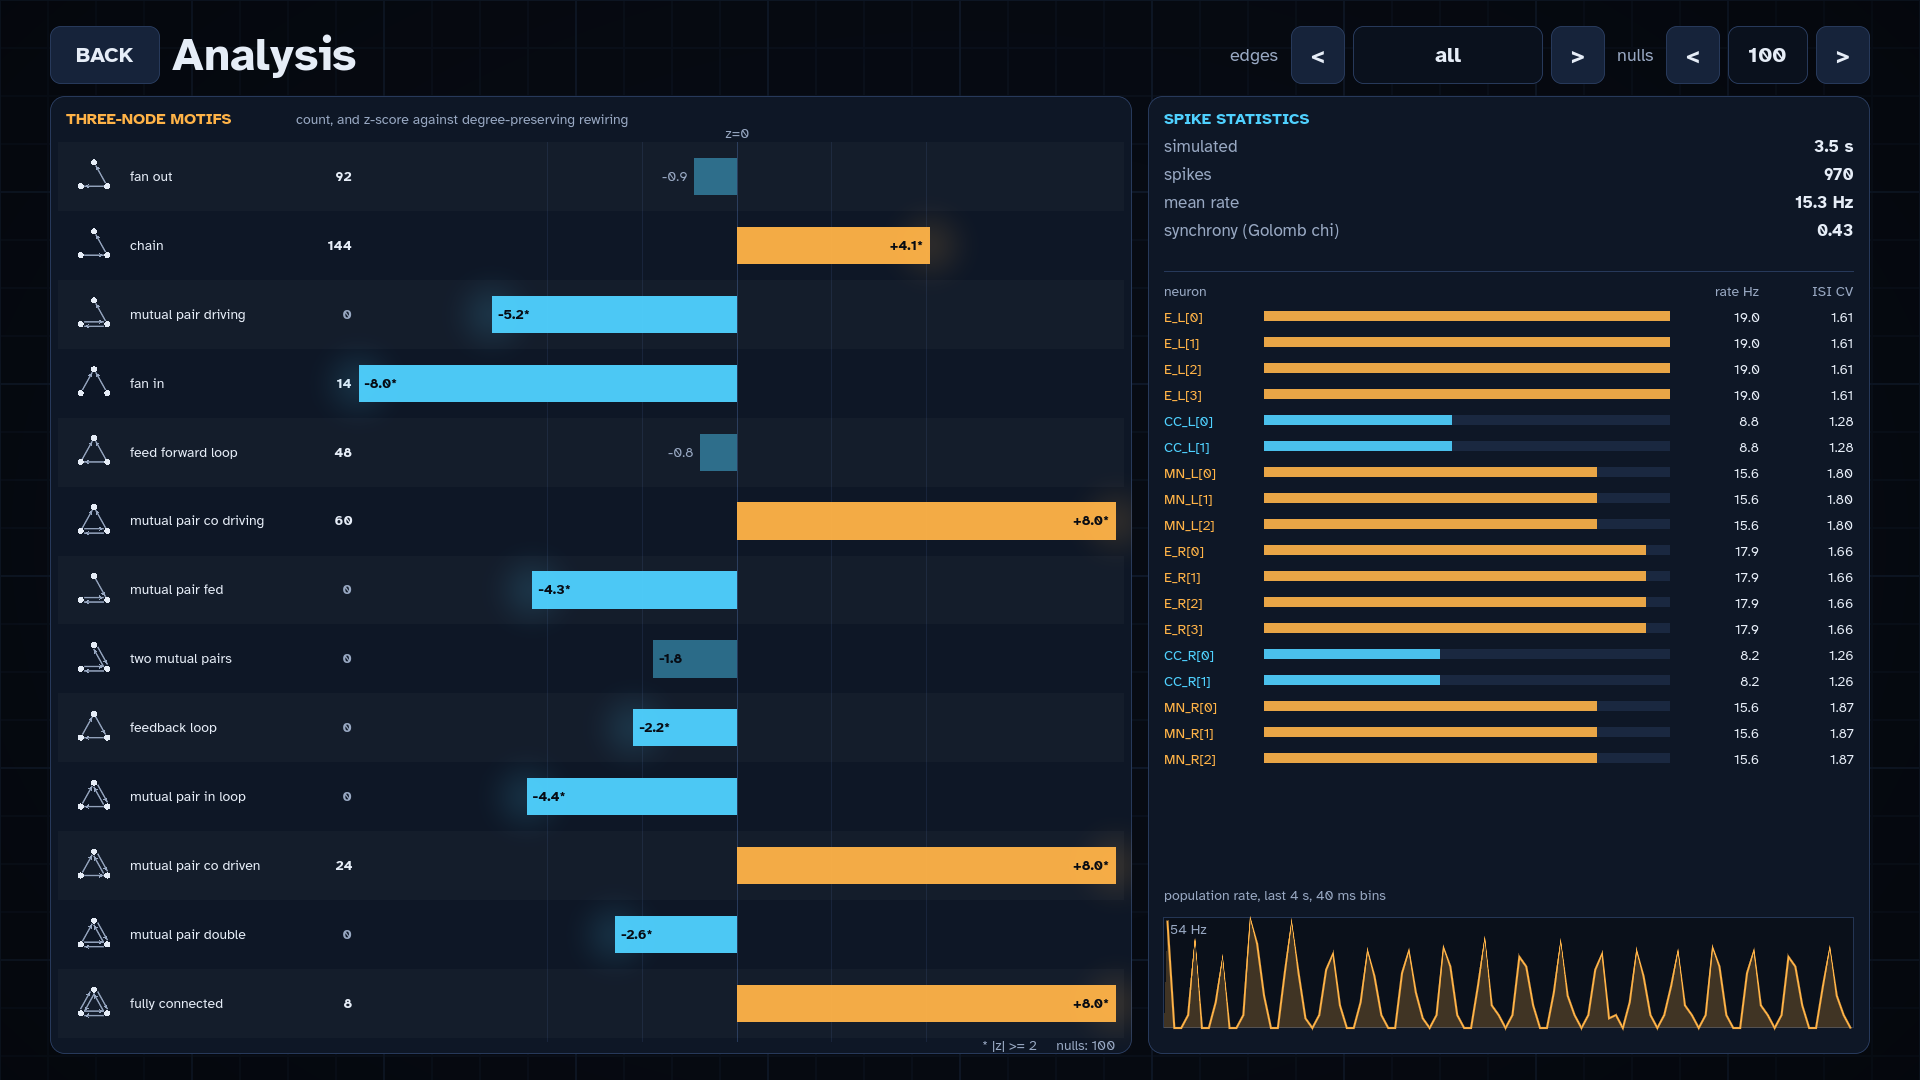
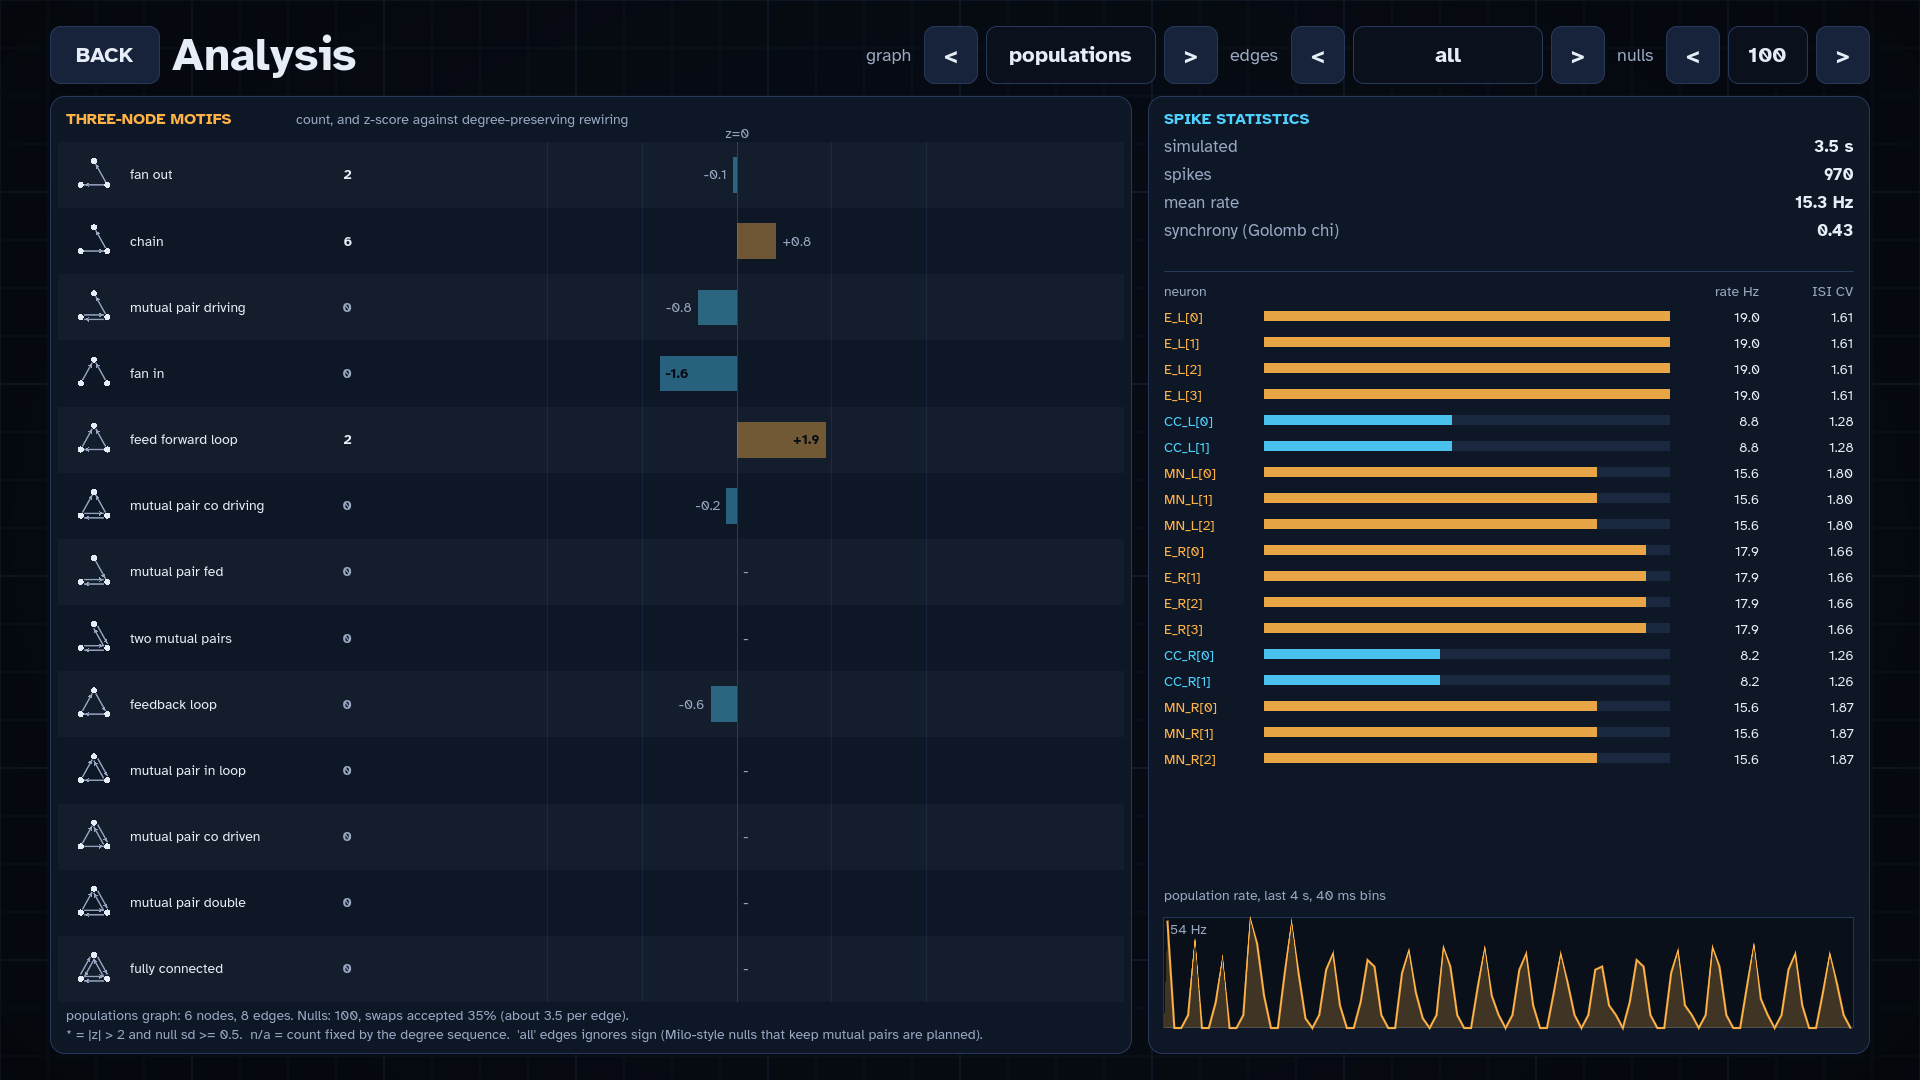
Analysis: n/a for undefined z, population/neuron graph toggle, swap-acceptance stats with degenerate-null warning, stricter significance; escaped bridge errors
Claude-Session: https://claude.ai/code/session_01LLtMdYYD8XdnzSCU87w8B8

diff --git a/engine/tests/analysis_nulls_test.cpp b/engine/tests/analysis_nulls_test.cpp
@@ -1,0 +1,143 @@
+// Tests for the null-model diagnostics: swap acceptance, degenerate-null detection, significance marking, JSON for undefined z.
+#include <cmath>
+#include <cstdio>
+#include <limits>
+#include <string>
+
+#include "spike/analysis.h"
+
+using namespace spike::analysis;
+
+static int g_fail = 0;
+#define CHECK( cond )                                                                                                  \
+  do                                                                                                                   \
+  {                                                                                                                    \
+    if ( !( cond ) )                                                                                                   \
+    {                                                                                                                  \
+      std::printf( "FAIL %s:%d  %s\n", __FILE__, __LINE__, #cond );                                                    \
+      ++g_fail;                                                                                                        \
+    }                                                                                                                  \
+  } while ( 0 )
+
+static std::vector< Edge > dense( int n, double keep_every )
+{
+  std::vector< Edge > e;
+  int k = 0;
+  for ( int a = 0; a < n; ++a )
+    for ( int b = 0; b < n; ++b )
+      if ( a != b && ( ++k % static_cast< int >( keep_every ) ) != 0 )
+        e.push_back( { a, b, 1.0 } );
+  return e;
+}
+
+static std::vector< Edge > sparse_random( int n, int m, uint64_t seed )
+{
+  std::vector< Edge > e;
+  uint64_t s = seed;
+  while ( static_cast< int >( e.size() ) < m )
+  {
+    s = s * 6364136223846793005ULL + 1442695040888963407ULL;
+    const int a = static_cast< int >( ( s >> 33 ) % n );
+    s = s * 6364136223846793005ULL + 1442695040888963407ULL;
+    const int b = static_cast< int >( ( s >> 33 ) % n );
+    if ( a != b )
+      e.push_back( { a, b, 1.0 } );
+  }
+  return e;
+}
+
+static void test_rewire_stats()
+{
+  const Graph g = make_graph( sparse_random( 60, 150, 3 ), 60 );
+  RewireStats st;
+  const Graph r = rewire( g, 11, 10, &st );
+  CHECK( st.attempts == static_cast< uint64_t >( g.edge_count() ) * 10 );
+  CHECK( st.accepted > 0 && st.accepted <= st.attempts );
+  CHECK( st.accepted > st.attempts / 2 );  // sparse graph: most swaps succeed
+  CHECK( r.out == rewire( g, 11, 10 ).out );  // the stats overload gives the same graph
+  // complete digraph: no swap is possible
+  RewireStats full;
+  rewire( make_graph( dense( 5, 1000000 ), 5 ), 1, 10, &full );
+  CHECK( full.attempts > 0 && full.accepted == 0 );
+}
+
+static void test_degenerate_null()
+{
+  // 6 nodes, nearly complete: almost every swap would create a duplicate edge
+  const auto r = motif_zscores( dense( 6, 7 ), 6, Sign::Any, 50, 1 );
+  CHECK( r.swap_acceptance < kMinSwapAcceptance );
+  CHECK( r.degenerate );
+  for ( int c = 0; c < kMotifClasses; ++c )
+    CHECK( !motif_is_significant( r, c ) );  // never starred on a degenerate null
+  const std::string j = motif_result_json( r );
+  CHECK( j.find( "\"degenerate\":true" ) != std::string::npos );
+  CHECK( j.find( "\"swap_acceptance\":" ) != std::string::npos );
+  CHECK( j.find( "\"significant\":true" ) == std::string::npos );
+
+  // a sparse graph randomises fine
+  const auto s = motif_zscores( sparse_random( 80, 160, 5 ), 80, Sign::Any, 30, 1 );
+  CHECK( !s.degenerate );
+  CHECK( s.swap_acceptance > 0.5 );
+  CHECK( s.effective_swaps_per_edge > 1.0 );
+  CHECK( s.node_count == 80 && s.edge_count > 100 );
+  CHECK( motif_result_json( s ).find( "\"degenerate\":false" ) != std::string::npos );
+}
+
+static void test_significance_rule()
+{
+  // planted feed-forward loops in a sparse random graph: FFL (index 4) is significant
+  std::vector< Edge > e = sparse_random( 80, 90, 4 );
+  for ( int t = 0; t < 25; ++t )
+  {
+    const int x = 3 * t, y = x + 1, z = x + 2;
+    e.push_back( { x, y, 1 } );
+    e.push_back( { y, z, 1 } );
+    e.push_back( { x, z, 1 } );
+  }
+  const auto r = motif_zscores( e, 80, Sign::Any, 40, 5 );
+  CHECK( !r.degenerate );
+  CHECK( r.z[ 4 ] > 2.0 && r.null_sd[ 4 ] >= kMinNullSd );
+  CHECK( motif_is_significant( r, 4 ) );
+  // marking requires both |z| > 2 and enough null variance
+  for ( int c = 0; c < kMotifClasses; ++c )
+    CHECK( motif_is_significant( r, c ) == ( std::isfinite( r.z[ c ] ) && std::fabs( r.z[ c ] ) > kSignificantZ && r.null_sd[ c ] >= kMinNullSd ) );
+  // few tiny-variance classes with a large |z| exist here and are not starred
+  bool tiny = false;
+  for ( int c = 0; c < kMotifClasses; ++c )
+    if ( r.null_sd[ c ] > 0 && r.null_sd[ c ] < kMinNullSd && std::fabs( r.z[ c ] ) > kSignificantZ )
+    {
+      tiny = true;
+      CHECK( !motif_is_significant( r, c ) );
+    }
+  (void)tiny;
+}
+
+static void test_nonfinite_z_json()
+{
+  MotifResult r;
+  r.counts.assign( kMotifClasses, 3 );
+  r.null_mean.assign( kMotifClasses, 3.0 );
+  r.null_sd.assign( kMotifClasses, 0.0 );
+  r.z.assign( kMotifClasses, 0.0 );
+  r.significant.assign( kMotifClasses, 0 );
+  r.z[ 0 ] = std::numeric_limits< double >::infinity();
+  r.z[ 1 ] = -std::numeric_limits< double >::infinity();
+  const std::string j = motif_result_json( r );
+  // +-inf serialises as null with z_defined false and is never significant; a finite z is defined
+  CHECK( j.find( "\"z\":null,\"z_defined\":false,\"significant\":false" ) != std::string::npos );
+  CHECK( j.find( "\"z\":0,\"z_defined\":true,\"significant\":false" ) != std::string::npos );
+  size_t n_null = 0, pos = 0;
+  while ( ( pos = j.find( "\"z\":null", pos ) ) != std::string::npos )
+    ++n_null, ++pos;
+  CHECK( n_null == 2 );
+}
+
+int main()
+{
+  test_rewire_stats();
+  test_degenerate_null();
+  test_significance_rule();
+  test_nonfinite_z_json();
+  std::printf( g_fail ? "analysis_nulls_test: %d FAILED\n" : "analysis_nulls_test: all passed\n", g_fail );
+  return g_fail ? 1 : 0;
+}

diff --git a/engine/src/analysis/analysis.cpp b/engine/src/analysis/analysis.cpp
@@ -202,6 +202,11 @@ Census motif_census( const std::vector< Edge >& edges, int32_t n, Sign sign )
 
 Graph rewire( const Graph& g, uint64_t seed, int swaps_per_edge )
 {
+  return rewire( g, seed, swaps_per_edge, nullptr );
+}
+
+Graph rewire( const Graph& g, uint64_t seed, int swaps_per_edge, RewireStats* stats )
+{
   std::vector< std::pair< int32_t, int32_t > > e;
   std::unordered_set< uint64_t > present;
   const uint64_t N = static_cast< uint64_t >( std::max( g.n, 1 ) );
@@ -219,12 +224,16 @@ Graph rewire( const Graph& g, uint64_t seed, int swaps_per_edge )
     for ( uint64_t t = 0; t < tries; ++t )
     {
       const uint64_t i = rng.next() % m, j = rng.next() % m;
+      if ( stats )
+        ++stats->attempts;
       const auto [ a, b ] = e[ i ];
       const auto [ c, d ] = e[ j ];
       if ( a == c || b == d || a == d || c == b )
         continue;
       if ( present.count( a * N + d ) || present.count( c * N + b ) )
         continue;
+      if ( stats )
+        ++stats->accepted;
       present.erase( a * N + b );
       present.erase( c * N + d );
       present.insert( a * N + d );
@@ -249,8 +258,18 @@ MotifResult motif_zscores( const Graph& g, int n_null, uint64_t seed, int swaps_
   r.counts = motif_census( g );
   r.null_samples = n_null;
   std::vector< Census > nulls;
+  RewireStats rs;
   for ( int k = 0; k < n_null; ++k )
-    nulls.push_back( motif_census( rewire( g, seed + static_cast< uint64_t >( k ), swaps_per_edge ) ) );
+    nulls.push_back( motif_census( rewire( g, seed + static_cast< uint64_t >( k ), swaps_per_edge, &rs ) ) );
+  r.node_count = g.n;
+  r.edge_count = g.edge_count();
+  r.swap_attempts = rs.attempts;
+  r.swap_accepted = rs.accepted;
+  r.swap_acceptance = rs.attempts ? static_cast< double >( rs.accepted ) / static_cast< double >( rs.attempts ) : 0.0;
+  r.effective_swaps_per_edge =
+    ( n_null > 0 && r.edge_count > 0 ) ? static_cast< double >( rs.accepted ) / static_cast< double >( n_null ) / static_cast< double >( r.edge_count ) : 0.0;
+  r.degenerate = n_null > 0 && r.swap_acceptance < kMinSwapAcceptance;
+  r.significant.assign( kMotifClasses, 0 );
   r.null_mean.assign( kMotifClasses, 0.0 );
   r.null_sd.assign( kMotifClasses, 0.0 );
   r.z.assign( kMotifClasses, 0.0 );
@@ -277,6 +296,7 @@ MotifResult motif_zscores( const Graph& g, int n_null, uint64_t seed, int swaps_
       r.z[ c ] = 0.0;
     else
       r.z[ c ] = diff > 0 ? std::numeric_limits< double >::infinity() : -std::numeric_limits< double >::infinity();
+    r.significant[ c ] = ( std::isfinite( r.z[ c ] ) && std::fabs( r.z[ c ] ) > kSignificantZ && sd >= kMinNullSd && !r.degenerate ) ? 1 : 0;
   }
   return r;
 }
@@ -285,6 +305,11 @@ MotifResult motif_zscores(
   const std::vector< Edge >& edges, int32_t n, Sign sign, int n_null, uint64_t seed, int swaps_per_edge )
 {
   return motif_zscores( make_graph( edges, n, sign ), n_null, seed, swaps_per_edge );
+}
+
+bool motif_is_significant( const MotifResult& r, int c )
+{
+  return c >= 0 && c < static_cast< int >( r.significant.size() ) && r.significant[ c ] != 0;
 }
 
 static void json_num( std::ostringstream& o, double v )
@@ -302,7 +327,12 @@ static void json_num( std::ostringstream& o, double v )
 std::string motif_result_json( const MotifResult& r )
 {
   std::ostringstream o;
-  o << "{\"null_samples\":" << r.null_samples << ",\"motifs\":[";
+  o << "{\"null_samples\":" << r.null_samples << ",\"nodes\":" << r.node_count << ",\"edges\":" << r.edge_count
+    << ",\"swap_acceptance\":";
+  json_num( o, r.swap_acceptance );
+  o << ",\"effective_swaps_per_edge\":";
+  json_num( o, r.effective_swaps_per_edge );
+  o << ",\"degenerate\":" << ( r.degenerate ? "true" : "false" ) << ",\"motifs\":[";
   for ( int c = 0; c < kMotifClasses; ++c )
   {
     const auto& m = motif_info( c );
@@ -313,7 +343,8 @@ std::string motif_result_json( const MotifResult& r )
     json_num( o, c < static_cast< int >( r.null_sd.size() ) ? r.null_sd[ c ] : 0.0 );
     o << ",\"z\":";
     json_num( o, c < static_cast< int >( r.z.size() ) ? r.z[ c ] : 0.0 );
-    o << "}";
+    o << ",\"z_defined\":" << ( c < static_cast< int >( r.z.size() ) && std::isfinite( r.z[ c ] ) ? "true" : "false" )
+      << ",\"significant\":" << ( motif_is_significant( r, c ) ? "true" : "false" ) << "}";
   }
   o << "]}";
   return o.str();

diff --git a/engine/include/spike/analysis.h b/engine/include/spike/analysis.h
@@ -67,6 +67,22 @@ Census motif_census( const std::vector< Edge >& edges, int32_t n = -1, Sign sign
 /// `swaps_per_edge` attempted swaps per edge. Deterministic for a given seed (SplitMix64, identical in Python).
 Graph rewire( const Graph& g, uint64_t seed, int swaps_per_edge = 10 );
 
+/// What rewire() did: swap attempts vs accepted swaps. Small dense graphs reject most attempts, so the null barely differs from
+/// the real graph; acceptance = accepted / attempts says how much randomisation actually happened.
+struct RewireStats
+{
+  uint64_t attempts = 0;
+  uint64_t accepted = 0;
+};
+Graph rewire( const Graph& g, uint64_t seed, int swaps_per_edge, RewireStats* stats );  // same result as the 3-argument form
+
+/// Below this swap acceptance rate the null ensemble is called degenerate (too little randomisation to trust a z-score).
+constexpr double kMinSwapAcceptance = 0.2;
+/// A z-score counts as significant only if |z| > kSignificantZ and the null sd is at least kMinNullSd counts (counts are
+/// integers: an sd below ~0.5 means the null is essentially a constant, and z explodes on a difference of one).
+constexpr double kSignificantZ = 2.0;
+constexpr double kMinNullSd = 0.5;
+
 struct MotifResult
 {
   Census counts;                  // real graph
@@ -74,12 +90,24 @@ struct MotifResult
   std::vector< double > null_sd;  // sample sd (n-1) across the null ensemble
   std::vector< double > z;        // (count - mean) / sd; 0 if count == mean, +-inf if sd == 0 and count != mean
   int null_samples = 0;
+  // --- add-only diagnostics of the null model
+  int32_t node_count = 0;
+  int64_t edge_count = 0;
+  uint64_t swap_attempts = 0;       // summed over the null ensemble
+  uint64_t swap_accepted = 0;
+  double swap_acceptance = 0.0;     // accepted / attempts (0 if no swap was possible)
+  double effective_swaps_per_edge = 0.0;  // accepted swaps per edge per null graph
+  bool degenerate = false;          // swap_acceptance < kMinSwapAcceptance (or fewer than 2 edges): nulls hardly differ from the data
+  std::vector< int > significant;   // 1 if finite z, |z| > kSignificantZ and null_sd >= kMinNullSd; infinite/undefined z is never significant
 };
 
 /// Census plus z-scores against `n_null` rewired graphs (null k uses seed + k).
 MotifResult motif_zscores( const Graph& g, int n_null, uint64_t seed, int swaps_per_edge = 10 );
 MotifResult motif_zscores( const std::vector< Edge >& edges, int32_t n, Sign sign, int n_null, uint64_t seed,
   int swaps_per_edge = 10 );
+
+/// True if the z-score of class c is finite and trustworthy enough to mark (see kSignificantZ / kMinNullSd) and the null is not degenerate.
+bool motif_is_significant( const MotifResult& r, int c );
 
 /// Results as one JSON object (class table + counts + z), for the Godot analysis screen and the CLI tool.
 std::string motif_result_json( const MotifResult& r );

diff --git a/gdext/src/bridge.cpp b/gdext/src/bridge.cpp
@@ -3,22 +3,53 @@
 
 namespace spike_gd
 {
+static std::string error_json( const std::string& what )
+{
+  std::string m;
+  for ( unsigned char c : what )
+  {
+    if ( c == '"' || c == '\\' )
+      ( m += '\\' ) += static_cast< char >( c );
+    else if ( c < 0x20 )
+      m += ' ';
+    else
+      m += static_cast< char >( c );
+  }
+  return "{\"error\": \"" + m + "\"}";
+}
+
+static spike::analysis::Sign to_sign( int sign )
+{
+  return sign == 1 ? spike::analysis::Sign::Excitatory : sign == 2 ? spike::analysis::Sign::Inhibitory : spike::analysis::Sign::Any;
+}
+
 std::string motif_json( const spike::Engine& engine, int sign, int n_null, unsigned long long seed )
 {
   try
   {
     auto edges = spike::analysis::edges_from_engine( engine );
-    auto sg = sign == 1 ? spike::analysis::Sign::Excitatory : sign == 2 ? spike::analysis::Sign::Inhibitory : spike::analysis::Sign::Any;
-    auto r = spike::analysis::motif_zscores( edges, engine.neuron_count(), sg, n_null, seed );
+    auto r = spike::analysis::motif_zscores( edges, engine.neuron_count(), to_sign( sign ), n_null, seed );
     return spike::analysis::motif_result_json( r );
   }
   catch ( const std::exception& e )
   {
-    std::string m = e.what();
-    for ( auto& c : m )
-      if ( c == '"' || c == '\\' )
-        c = '\'';
-    return "{\"error\": \"" + m + "\"}";
+    return error_json( e.what() );
+  }
+}
+
+std::string motif_json_edges( const std::vector< double >& triples, int n, int sign, int n_null, unsigned long long seed )
+{
+  try
+  {
+    std::vector< spike::analysis::Edge > edges;
+    for ( size_t i = 0; i + 2 < triples.size(); i += 3 )
+      edges.push_back( { static_cast< int32_t >( triples[ i ] ), static_cast< int32_t >( triples[ i + 1 ] ), triples[ i + 2 ] } );
+    auto r = spike::analysis::motif_zscores( edges, n, to_sign( sign ), n_null, seed );
+    return spike::analysis::motif_result_json( r );
+  }
+  catch ( const std::exception& e )
+  {
+    return error_json( e.what() );
   }
 }
 

diff --git a/gdext/src/spike_sim.cpp b/gdext/src/spike_sim.cpp
@@ -137,6 +137,14 @@ String SpikeSim::motif_json( int64_t sign, int64_t n_null, int64_t seed ) const
   return String::utf8( spike_gd::motif_json( *engine_, int( sign ), int( n_null ), uint64_t( seed ) ).c_str() );
 }
 
+String SpikeSim::motif_json_edges( const PackedFloat64Array& triples, int64_t n, int64_t sign, int64_t n_null, int64_t seed )
+{
+  std::vector< double > t( size_t( triples.size() ) );
+  for ( int64_t i = 0; i < triples.size(); ++i )
+    t[ size_t( i ) ] = triples[ i ];
+  return String::utf8( spike_gd::motif_json_edges( t, int( n ), int( sign ), int( n_null ), uint64_t( seed ) ).c_str() );
+}
+
 Dictionary SpikeSim::spike_stats( const PackedFloat64Array& pairs, int64_t n, double t0_ms, double t1_ms )
 {
   std::vector< spike::Spike > sp;
@@ -176,5 +184,6 @@ void SpikeSim::_bind_methods()
   ClassDB::bind_method( D_METHOD( "dropped" ), &SpikeSim::dropped );
   ClassDB::bind_method( D_METHOD( "stop" ), &SpikeSim::stop );
   ClassDB::bind_method( D_METHOD( "motif_json", "sign", "n_null", "seed" ), &SpikeSim::motif_json );
+  ClassDB::bind_static_method( "SpikeSim", D_METHOD( "motif_json_edges", "triples", "n", "sign", "n_null", "seed" ), &SpikeSim::motif_json_edges );
   ClassDB::bind_static_method( "SpikeSim", D_METHOD( "spike_stats", "pairs", "n", "t0_ms", "t1_ms" ), &SpikeSim::spike_stats );
 }

diff --git a/gdext/src/spike_sim.h b/gdext/src/spike_sim.h
@@ -40,6 +40,8 @@ public:
   /// 3-node motif census of the loaded circuit with z-scores vs degree-preserving nulls, as a JSON string (analysis.h).
   /// sign: 0 all, 1 excitatory only, 2 inhibitory only.
   String motif_json( int64_t sign, int64_t n_null, int64_t seed ) const;
+  /// Census of an explicit graph: `triples` = flat (pre, post, weight) per edge over nodes 0..n-1. No loaded circuit needed.
+  static String motif_json_edges( const PackedFloat64Array& triples, int64_t n, int64_t sign, int64_t n_null, int64_t seed );
   /// Spike-train statistics of a drained (neuron, t) pair array: rates, ISI CV, Golomb chi.
   static Dictionary spike_stats( const PackedFloat64Array& pairs, int64_t n, double t0_ms, double t1_ms );
 

diff --git a/gdext/src/bridge.h b/gdext/src/bridge.h
@@ -8,6 +8,8 @@ namespace spike_gd
 {
 /// Motif census JSON (analysis.h motif_result_json) or {"error": "..."} if the graph can't be read.
 std::string motif_json( const spike::Engine& engine, int sign, int n_null, unsigned long long seed );
+/// Same census on an explicit edge list (flat triples pre, post, weight; node indices 0..n-1), e.g. the population graph.
+std::string motif_json_edges( const std::vector< double >& triples, int n, int sign, int n_null, unsigned long long seed );
 struct Stats
 {
   std::vector< double > rates, cv;
